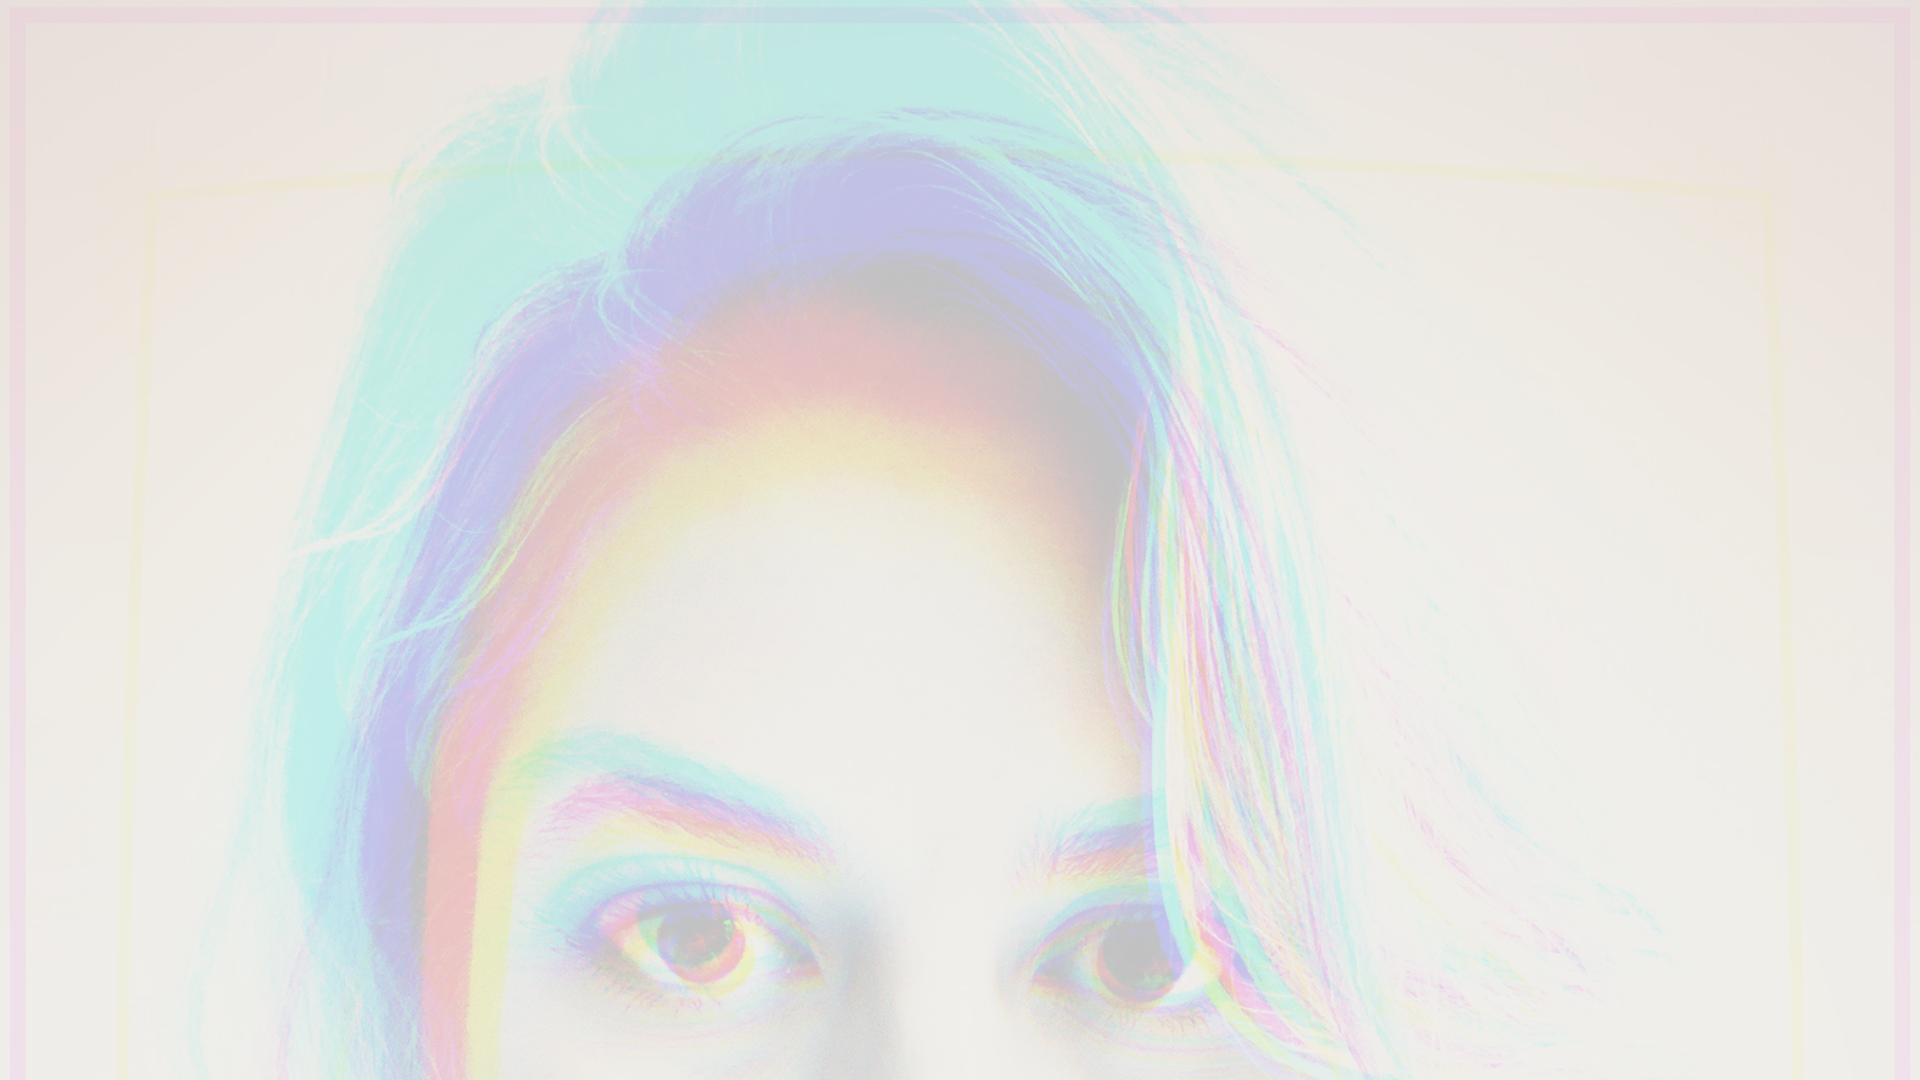
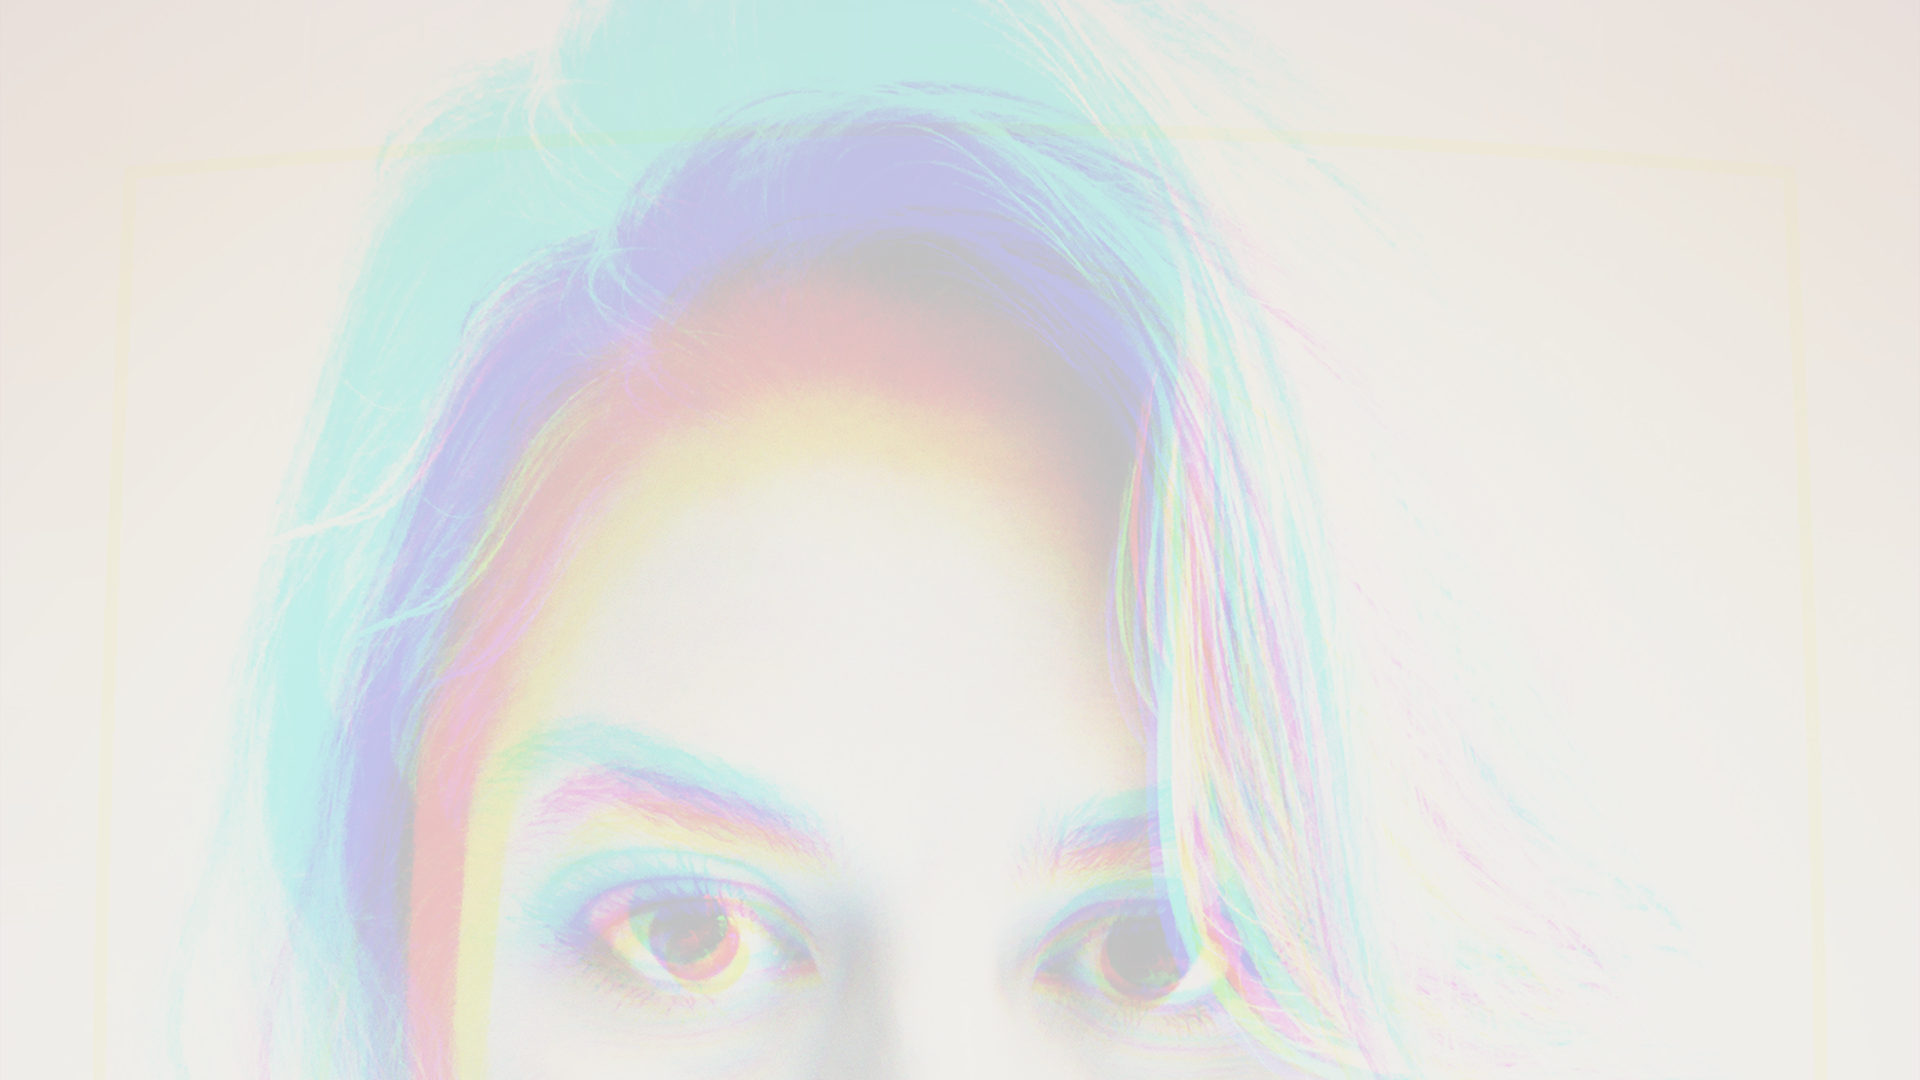
EDIT: bg for home & skills

diff --git a/src/views/Skills.js b/src/views/Skills.js
@@ -11,18 +11,26 @@ import Container from "@mui/material/Container";
 import { makeStyles } from "@mui/styles";
 import Typography from "@mui/material/Typography";
 import { topSkills, medSkills, softSkills } from "../data/resumeSkills";
+import skillLg from "../assets/desktop_portfolio.png";
 
 /* MUI styles */
-const useStyles = makeStyles((theme) => {
-  return {
-    toolbar: theme.mixins.toolbar,
-  };
-});
+const useStyles = makeStyles((theme) => ({
+  root: {
+    [theme.breakpoints.up("xs")]: {
+      minHeight: "100vh",
+      backgroundImage: `url(${skillLg})`,
+      backgroundRepeat: "no-repeat",
+      backgroundSize: "cover",
+    },
+    marginTop: "-4.2rem",
+  },
+  toolbar: theme.mixins.toolbar,
+}));
 
 const Skills = () => {
   const classes = useStyles();
   return (
-    <>
+    <div className={classes.root}>
       <Container>
         <div className={classes.toolbar}></div>
         <div>
@@ -49,7 +57,7 @@ const Skills = () => {
           </ul>
         </div>
       </Container>
-    </>
+    </div>
   );
 };
 

diff --git a/src/views/Home.js b/src/views/Home.js
@@ -37,7 +37,7 @@ const useStyles = makeStyles((theme) => ({
   },
   name: {
     textShadow: "1px 1px 3px violet",
-  }
+  },
 }));
 
 /* COMPONENT */
@@ -49,7 +49,13 @@ const Home = () => {
       <CssBaseline />
       <Container>
         <div className={classes.text}>
-          <Typography className={classes.name} mt={"22rem"} variant="h1" align="center" gutterBottom>
+          <Typography
+            className={classes.name}
+            mt={"22rem"}
+            variant="h1"
+            align="center"
+            gutterBottom
+          >
             Heather White
           </Typography>
           <Typography variant="h4" align="center" gutterBottom>

diff --git a/src/data/resumeSkills.js b/src/data/resumeSkills.js
@@ -18,6 +18,7 @@ export const topSkills = [
 ];
 
 export const medSkills = [
+  "Material UI",
   "Firebase",
   "bcrypt",
   "Heroku",
@@ -36,4 +37,3 @@ export const softSkills = [
   "Creative problem solving",
   "Attention to detail",
 ];
-
